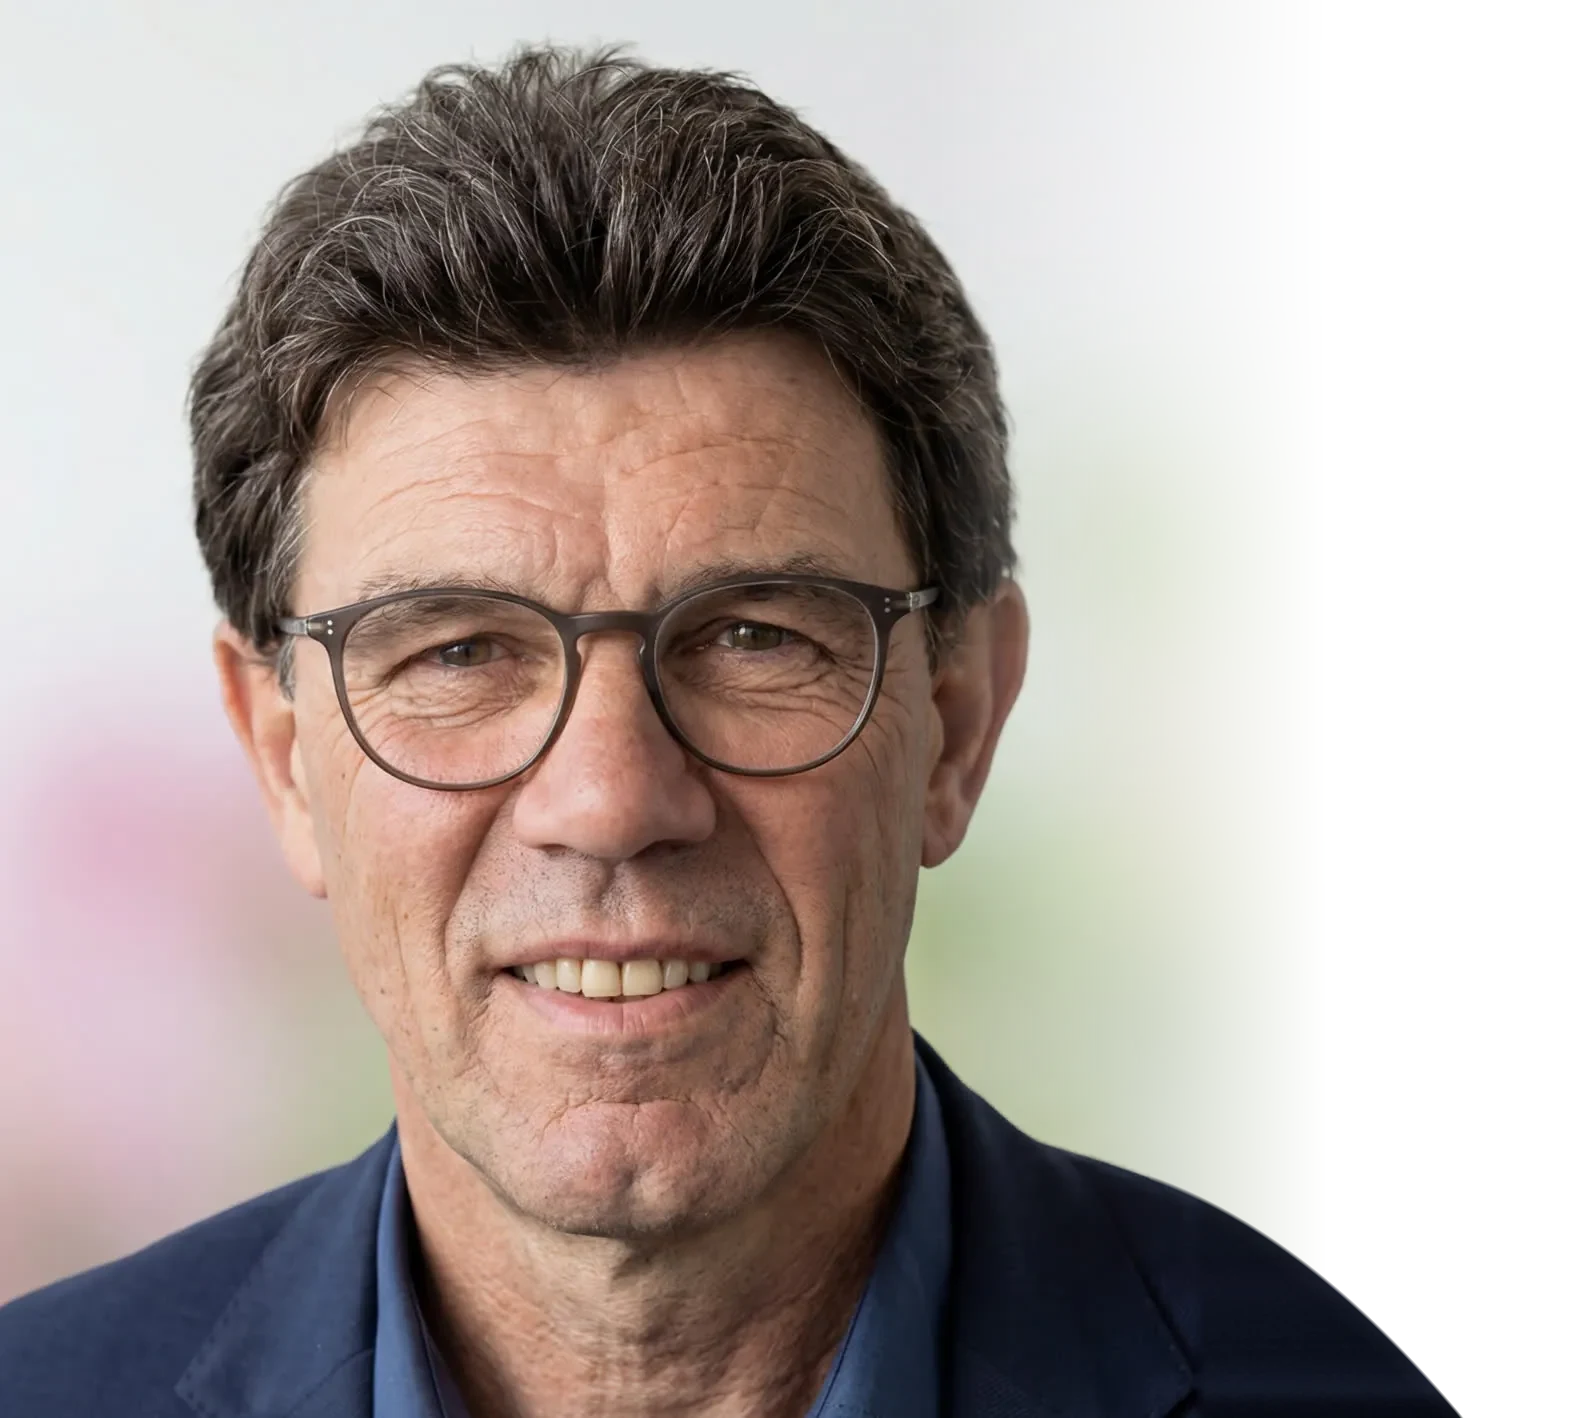
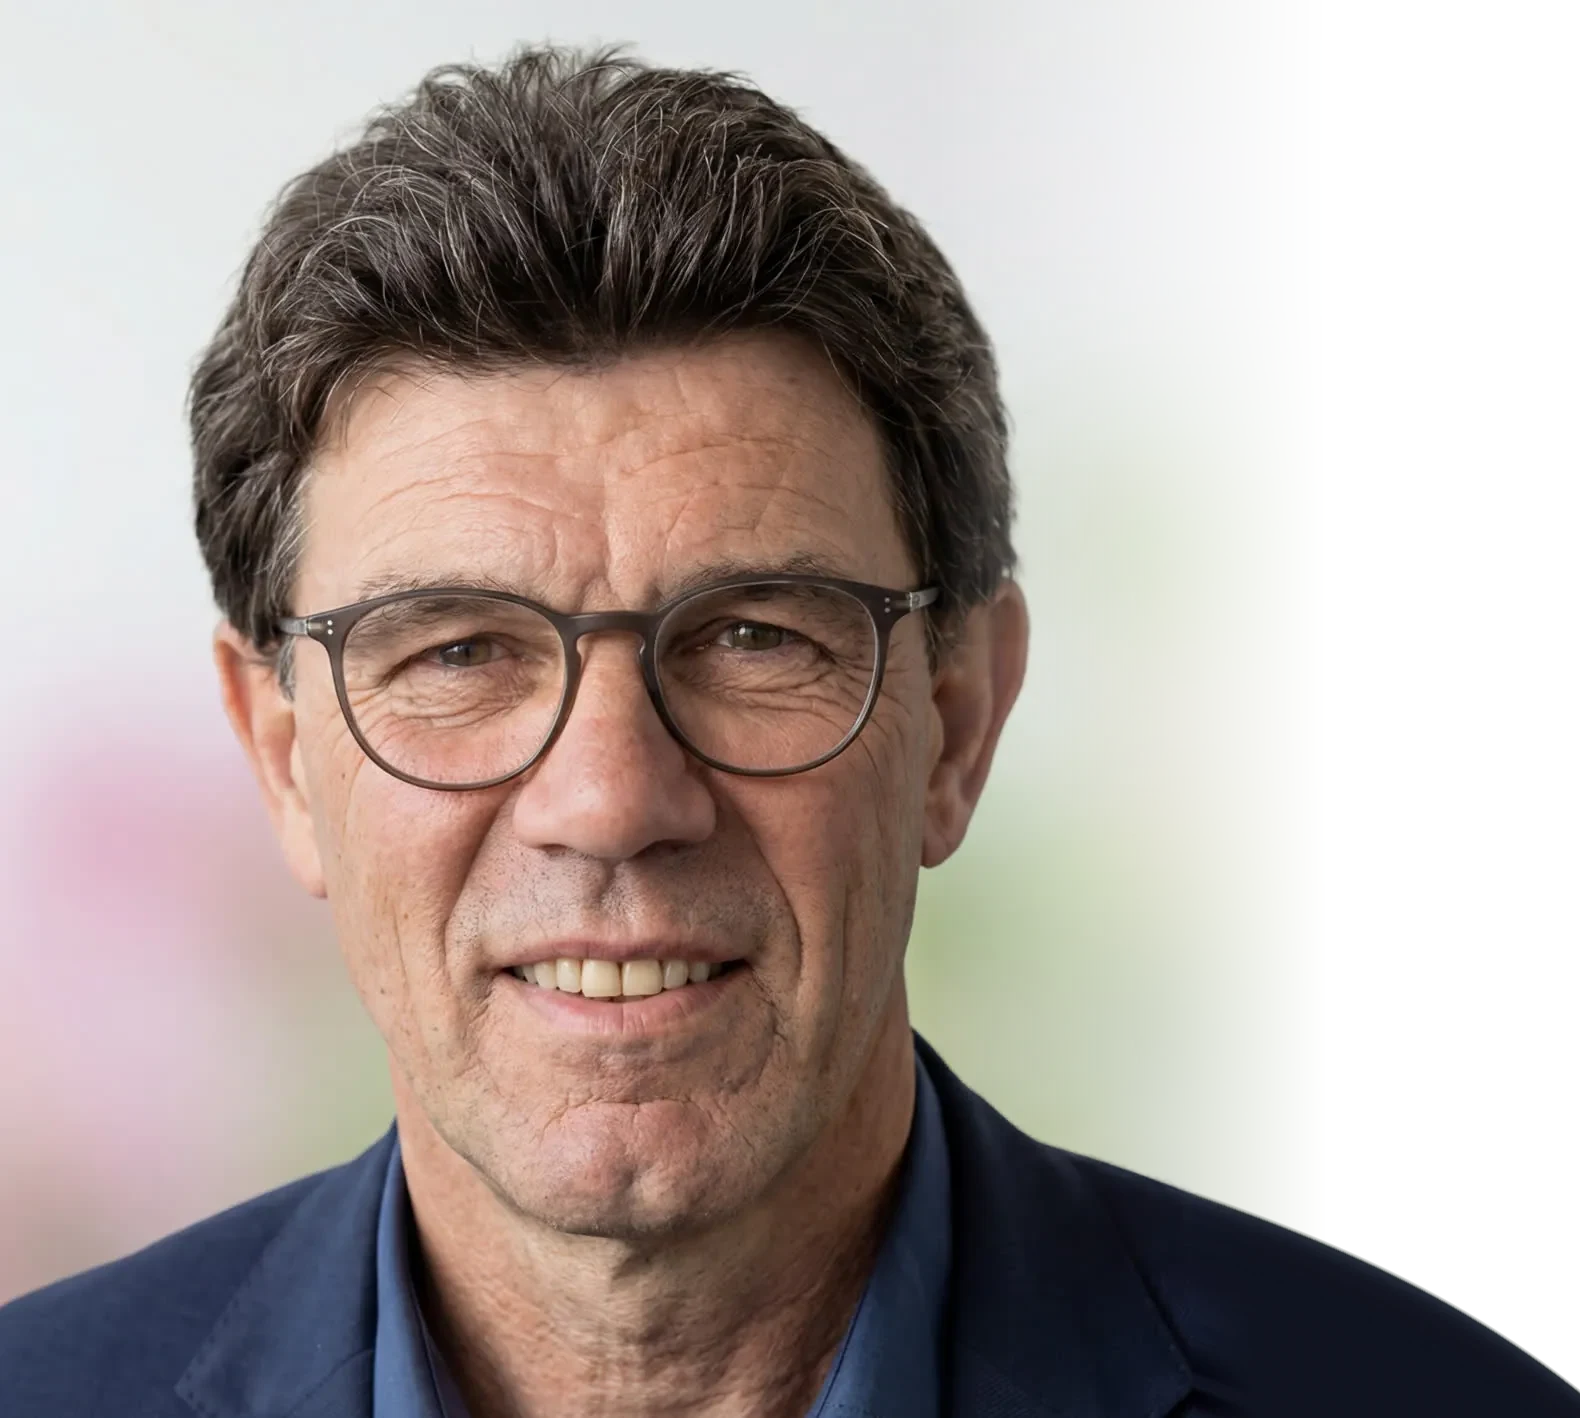
Founder mockup: broader shoulder, buttons lifted clear of it
The drawn-on shoulder now keeps the slope of his real left shoulder
instead of dropping early. Panel bottom padding and the glass veil make
room for it; on tablet the photo shifts left without cutting the hair.

Claude-Session: https://claude.ai/code/session_017WGSR2bqFmGwdHZQuiThhV

Changed region(s): [[0.8063, 0.8688, 1.0, 1.0], [0.7443, 0.8378, 0.8063, 0.8688]]

diff --git a/mockup-v3/block-mockups/waarom-kweker/index.html b/mockup-v3/block-mockups/waarom-kweker/index.html
@@ -56,7 +56,7 @@
 .fd-ph picture{display:contents}
 .fd-ph .ph-in img{display:block;width:100%;height:100%;object-fit:cover}
 .fd-ph figcaption{position:absolute;left:20px;bottom:18px;padding:6px 12px;border-radius:999px;background:rgba(12,14,11,.55);color:#fff;font-size:12.5px;font-weight:500;letter-spacing:.02em}
-.fd-pn{display:flex;flex-direction:column;padding:clamp(32px,4vw,64px)}
+.fd-pn{display:flex;flex-direction:column;padding:clamp(32px,4vw,64px);padding-bottom:calc(var(--colw) * .17)}
 .fd-pn .q{width:38px;height:38px}
 .fd-pn blockquote{margin:22px 0 0}
 .fd-pn blockquote p{margin:0;font-size:clamp(26px,2.6vw,38px);line-height:1.2;font-weight:500;letter-spacing:-.025em;max-width:22ch;text-wrap:balance}
@@ -68,7 +68,7 @@
 .fb{display:inline-flex;align-items:center;justify-content:center;height:48px;padding:0 22px;border-radius:999px;font-weight:600;font-size:15px;text-decoration:none}
 /* glass panel: colours sampled from the portrait backdrop (top #e0e1e3, middle #c5cab2, bottom #a0ae8b), lightening away from the photo */
 .fd-card{background:radial-gradient(40% 50% at 44% 96%,rgba(224,198,209,.42),transparent 70%),linear-gradient(to bottom,#e0e1e3 0%,#d4d8cc 42%,#c5cab2 70%,#aab696 100%)}
-.fd-pn{position:relative;color:#141413;background:linear-gradient(to right,rgba(240,241,238,0) 0%,rgba(240,241,238,0) 11%,rgba(240,241,238,.5) 34%,rgba(242,243,240,.82) 100%)}
+.fd-pn{position:relative;color:#141413;background:linear-gradient(to right,rgba(240,241,238,0) 0%,rgba(240,241,238,0) 20%,rgba(240,241,238,.5) 40%,rgba(242,243,240,.82) 100%)}
 .fd-pn .q{color:var(--moss)}
 .fd-role,.fd-txt{color:#3d3c37}
 .fb-1{background:var(--moss);color:#fff}
@@ -84,7 +84,8 @@
 }
 a:focus-visible{outline:2px solid var(--moss);outline-offset:3px}
 @media (max-width:1100px){.adv{grid-template-columns:repeat(2,minmax(0,1fr))}}
-@media (min-width:861px) and (max-width:1199px){.fd-card{--colw:calc((100vw - 2 * clamp(20px,4vw,80px)) * .5);grid-template-columns:minmax(0,1fr) minmax(0,1fr)}}
+@media (min-width:861px) and (max-width:1199px){.fd-card{--colw:calc((100vw - 2 * clamp(20px,4vw,80px)) * .5);grid-template-columns:minmax(0,1fr) minmax(0,1fr)}.fd-pn{padding-bottom:calc(var(--colw) * .22);background:linear-gradient(to right,rgba(240,241,238,0) 0%,rgba(240,241,238,0) 34%,rgba(240,241,238,.5) 56%,rgba(242,243,240,.82) 100%)}.fd-ph .ph-in{left:min(0px,max(calc((100cqw - var(--w)) * .75),calc(var(--w) * -.12)))}}
+@media (min-width:861px) and (max-width:1023px){.fd-pn{padding-bottom:calc(var(--colw) * .3);background:linear-gradient(to right,rgba(240,241,238,0) 0%,rgba(240,241,238,0) 44%,rgba(240,241,238,.5) 64%,rgba(242,243,240,.82) 100%)}}
 @media (max-width:900px){.srow{grid-template-columns:repeat(2,minmax(0,1fr));row-gap:22px}.srow li:nth-child(3){border-left:0;padding-left:0}.el li{grid-template-columns:40px minmax(0,1fr)}.el-note{display:none}}
 @media (max-width:860px){
   .wh-head{grid-template-columns:1fr;gap:16px}

diff --git a/docs/mockup-decisions.md b/docs/mockup-decisions.md
@@ -47,8 +47,9 @@ background: linear-gradient(to bottom, rgb(0 0 0 / .82) 0%, rgb(0 0 0 / .6) 52%,
 - Base = the first glass version the owner liked: card columns .9fr / 1.1fr, radius 28px; card gradient #e0e1e3 → #d4d8cc → #c5cab2 → #aab696 with a pink glow rgba(224,198,209,.42) at 44% 96%; panel veil rgba(240,241,238,0 → .5 → .82).
 - Owner's idea "дорисовать плечо": `img/owner-portrait-ext.webp` (1580×1418) = the original portrait plus 380 px drawn on at the right: backdrop continued, jacket/shoulder continued down to the bottom edge. Face and everything left of x≈1130 untouched. Used from 861 px up (`<picture>`); the phone keeps the original.
 - Frame (6 Nov, owner: "чуть ниже, больше места подбородку и шее"): the original 1200 px part is 93.5 % of the card height wide, top cropped 3 % (just above the hair), bottom at 93.5 % of the image: chin, neck and collar have room. Card min-height = photo column width × 1.05.
-- Shoulder (6 Nov, owner: "уголок на стыке"): the jacket edge from x 1150 is redrawn as one smooth curve that continues the original slope (no step at the old 1200 px edge).
-- Dissolve: baked into the WebP alpha, no CSS mask: same fade as the first version (opaque to the original 78 % point, transparent by 84 % of the extended canvas), while the jacket keeps full opacity along its exact outline, so no wedge of backdrop is left above the shoulder. Panel veil now starts at 11 % (0 → .5 at 34 % → .82) so the shoulder tip under the panel stays dark.
+- Shoulder (6 Nov, owner: "уголок на стыке", then "плечи как у дистрофика"): from x 1150 the jacket edge is one smooth curve that continues the original slope (0.35, easing to 0.5 at x 1400). This matches his left shoulder in the photo, which runs almost straight (~0.4) to the frame edge. The shoulder now leaves the card bottom at x ≈ 1488 of 1580 instead of dropping into the arm right after the old edge.
+- Room for the shoulder under the buttons: panel padding-bottom = photo column × .17 (desktop), × .22 (1024–1199), × .30 (861–1023). Gap from button to shoulder is 35–63 px. On tablet the photo shifts left (×.75 of the overflow, never more than 12 % of its width, so the hair stays in frame).
+- Dissolve: baked into the WebP alpha, no CSS mask: same fade as the first version (opaque to the original 78 % point, transparent by 84 % of the extended canvas), while the jacket keeps full opacity along its exact outline, so no wedge of backdrop is left above the shoulder. Panel veil starts after the shoulder tip so it stays dark: 0 until 20 % → .5 at 40 % → .82 (desktop); 34 % / 56 % (1024–1199); 44 % / 64 % (861–1023). Text contrast ≥ 6.2:1 on the darkest pixels.
 - Copy: quote, H2 "Gert Top", "Familiekwekerij in Otterlo, op de Veluwe, sinds 2001", short text, buttons "Bel Gert · 06 20 10 43 12" (moss) and "WhatsApp". No role caption on the photo.
 - Phone: still open; current proposal = clean inset photo inside the same glass card, text below.
 - If a cleaner extension is ever needed: redo the right 380 px with Photoshop Generative Expand on the original file.
